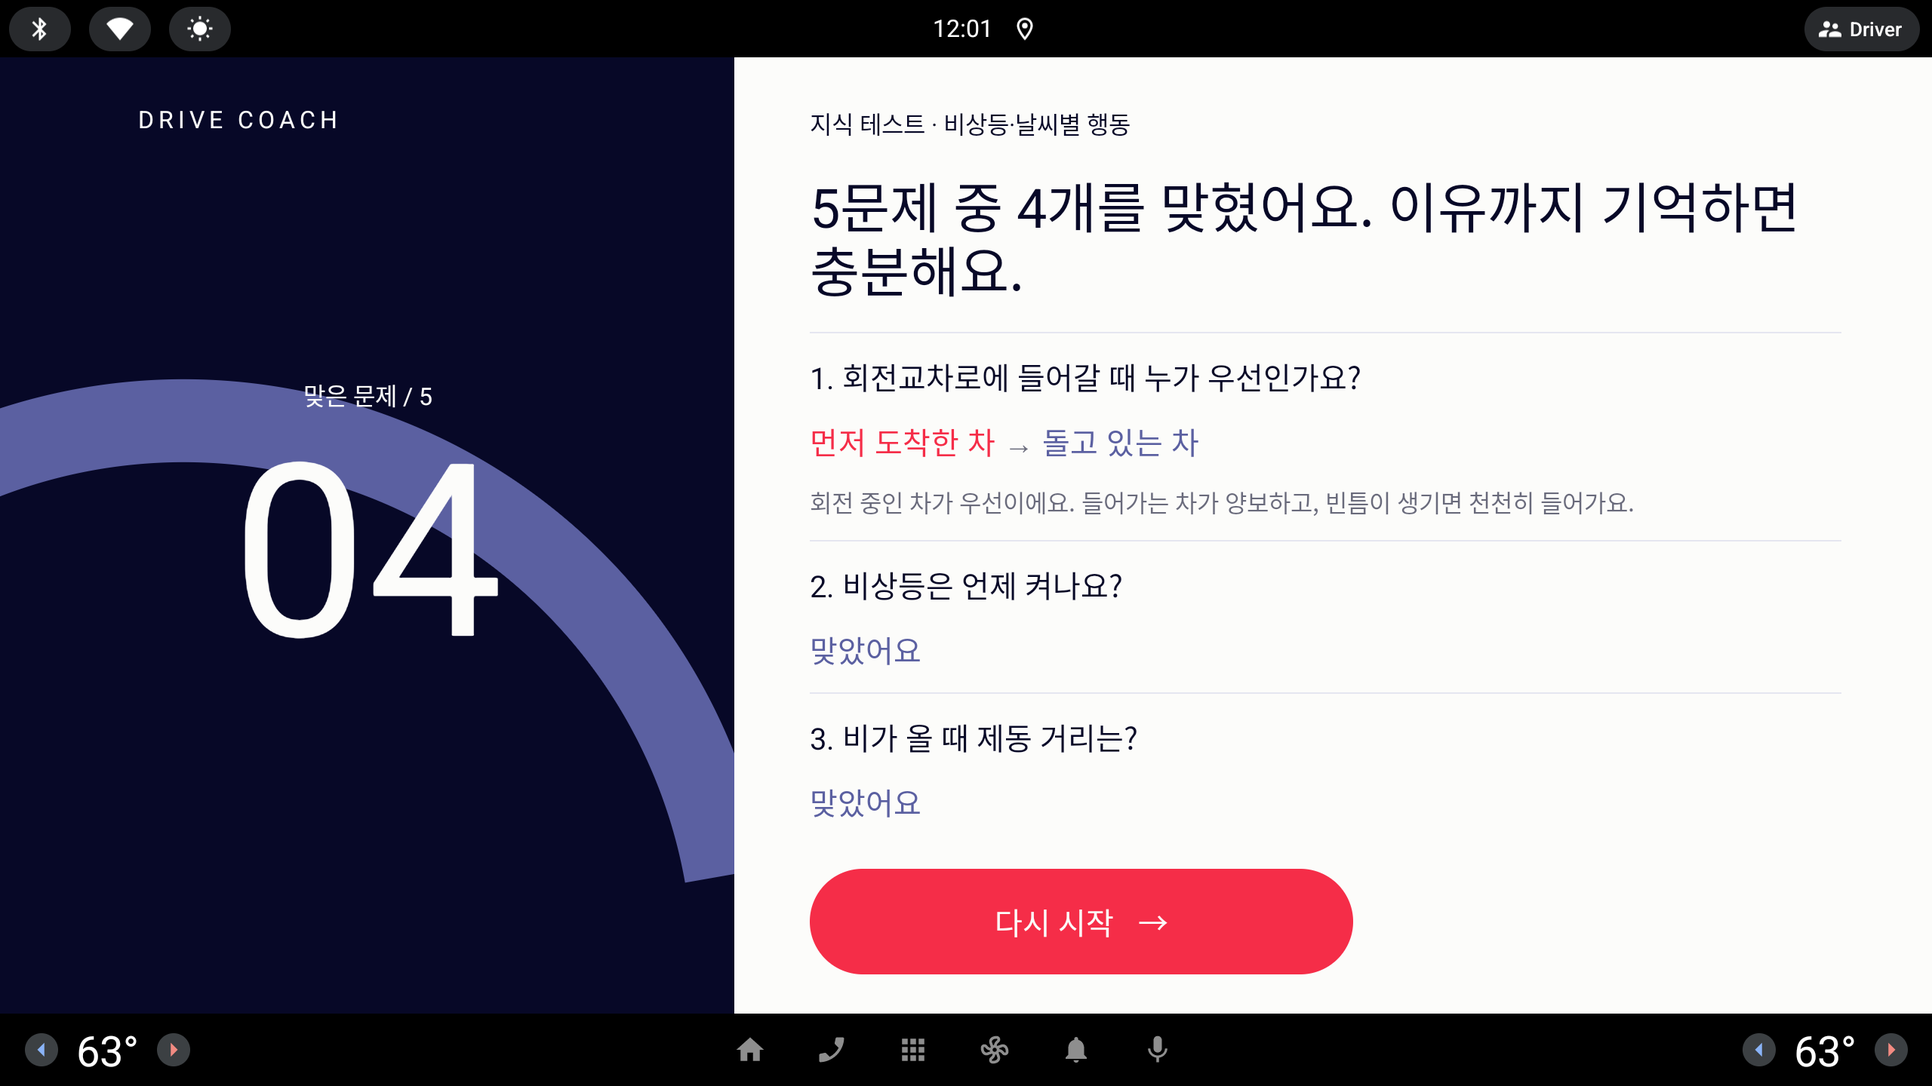
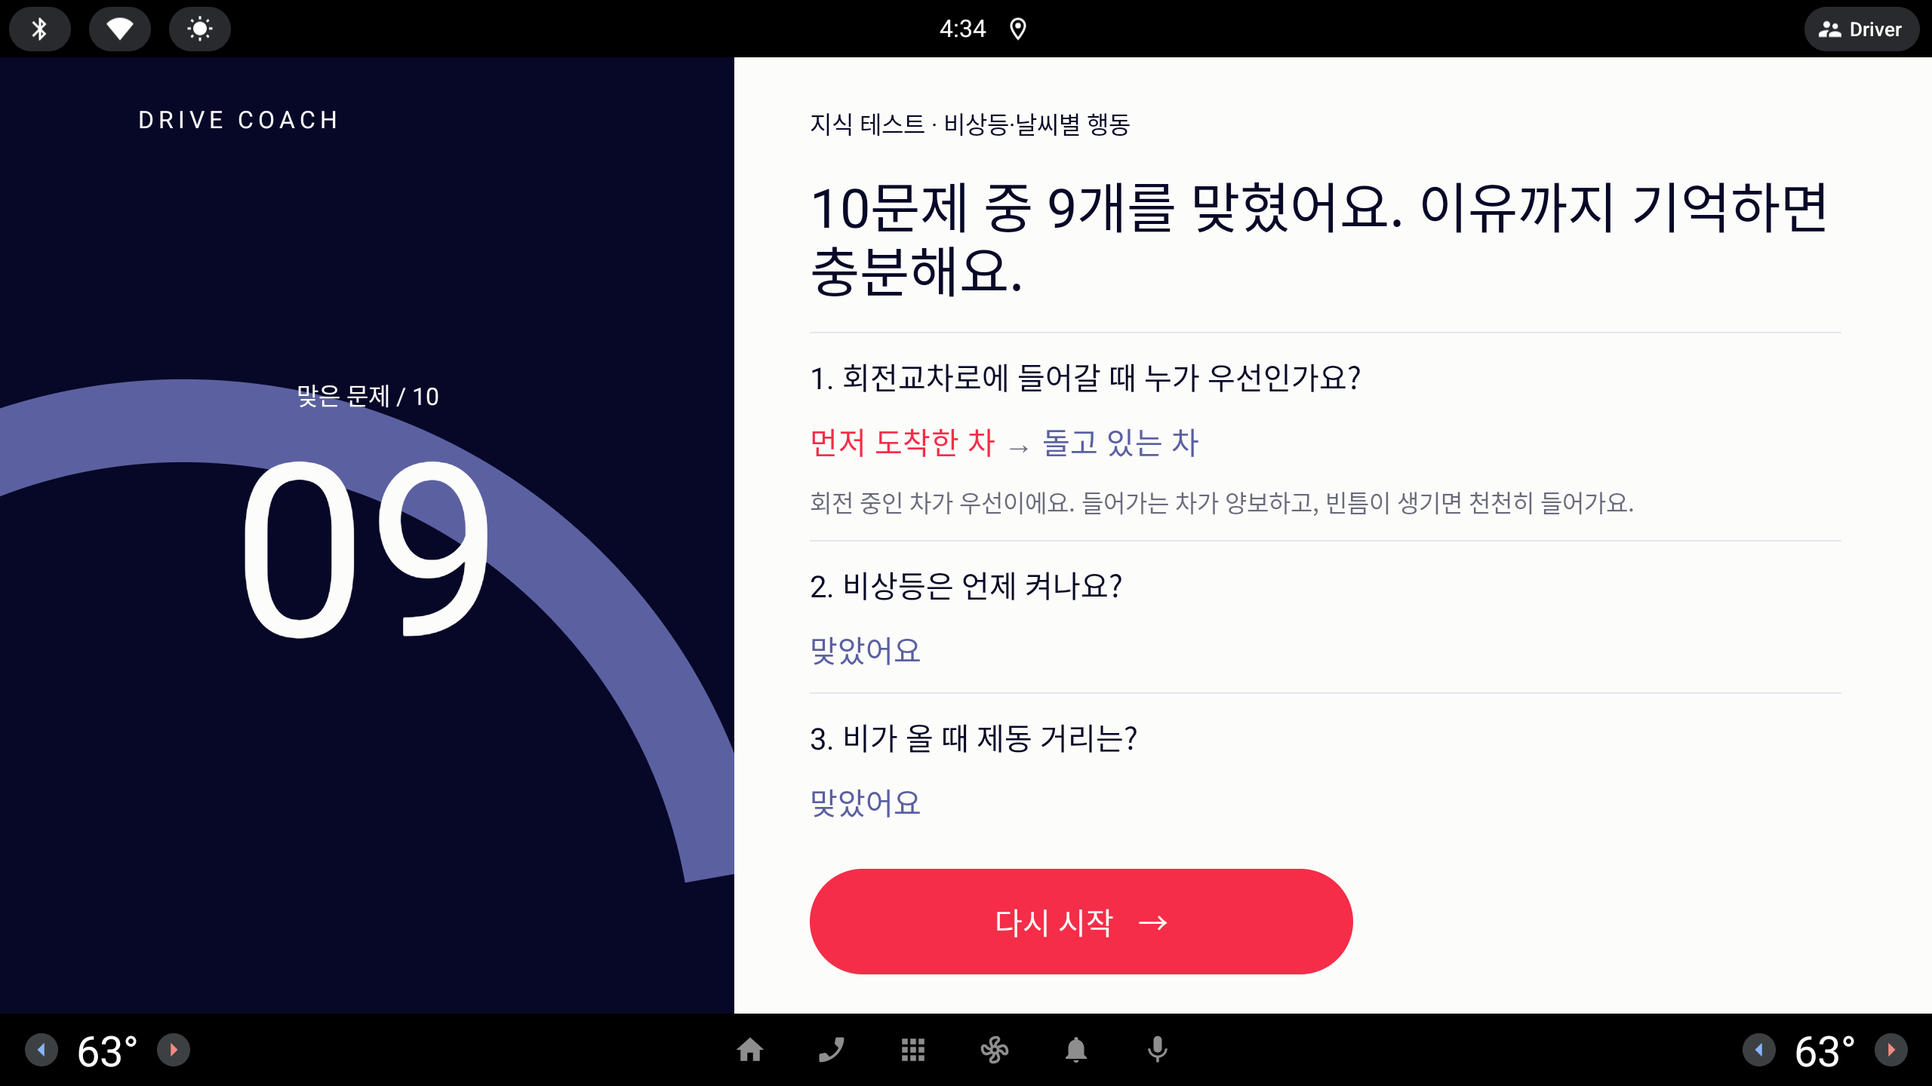
data: aligned 단독 서두를 제거하고 지식 퀴즈를 10문항으로 확장 (#123)
- EXCELLENT/GOOD의 aligned 단독 서두 두 개만 제거해 좋은 주차는 one_go를 우선 선택하고, 기존 판정 필터와 최근 문구 회피를 유지합니다.
- 기존 다섯 퀴즈 뒤에 정차 후 변속·주차 브레이크·막힌 교차로·횡단보도·고속도로 진입 문항을 추가해 10문항으로 늘립니다. 3지선다·해설 종결 규칙과 기존 교육 수치는 유지합니다.
- 10문항 완주·중도 종료·정답 저장과 실제 화면의 전체 문항/해설/결과 보기를 검증하고, 공식 근거·캡처 14장·로그를 README와 INTEGRATION C에 기록했습니다.
- 제품 코드 변경은 SeedCatalog 내용에 한정합니다. #121·#122와 같은 origin/main(11be5f6)에서 독립 분기했고 리뷰·머지 순서는 질감 B → 전면 UI → 시드입니다.

검증: PowerShell 지정 빌드 · 단위 테스트 235개 · 계측 APK · 원본 lesson_shots 3회 연속 Lesson contract passed · 원본 emu_flow PASS/clashes 0(60/55→100/100·힌트 3종·배지 8·두 번째 one_go 서두)

diff --git a/automotive/src/main/kotlin/com/moah/hackathon/data/SeedCatalog.kt b/automotive/src/main/kotlin/com/moah/hackathon/data/SeedCatalog.kt
@@ -148,7 +148,6 @@ object SeedCatalog {
         // 판정 문구는 #92의 필수 태그 필터를 거친다. 판정 없음·최근 문구 회피에는 기존 정성 문구를 쓴다.
         // EXCELLENT — 숙련 과정에 대한 긍정
         RemarkTemplate(ScoreBand.EXCELLENT, setOf("one_go"), "한 번에 들어갔어요."),
-        RemarkTemplate(ScoreBand.EXCELLENT, setOf("aligned"), "신호로 추정하면 방향도 맞게 섰어요."),
         RemarkTemplate(ScoreBand.EXCELLENT, setOf("rusty", "first"), "주차 과정을 능숙하게 이어 갔어요."),
         RemarkTemplate(ScoreBand.EXCELLENT, setOf("rusty"), "주차 동작이 전반적으로 매끄러웠어요."),
         RemarkTemplate(ScoreBand.EXCELLENT, setOf("improved"), "주차 흐름을 잘 이어 갔어요."),
@@ -157,7 +156,6 @@ object SeedCatalog {
         // GOOD
         RemarkTemplate(ScoreBand.GOOD, setOf("one_go"), "한 번에 들어갔어요."),
         RemarkTemplate(ScoreBand.GOOD, setOf("one_fix"), "한 번 다시 넣고 들어갔어요."),
-        RemarkTemplate(ScoreBand.GOOD, setOf("aligned"), "신호로 추정하면 방향도 맞게 섰어요."),
         RemarkTemplate(ScoreBand.GOOD, setOf("rusty", "first"), "주차 과정을 대체로 잘 이어 갔어요."),
         RemarkTemplate(ScoreBand.GOOD, setOf("first"), "주차 동작에서 좋은 감각이 보였어요."),
         RemarkTemplate(ScoreBand.GOOD, setOf("improved"), "주차 흐름에서 좋은 부분이 보였어요."),
@@ -242,5 +240,10 @@ object SeedCatalog {
         QuizItem("rain-braking", "비가 올 때 제동 거리는?", listOf("같다", "짧아진다", "길어진다"), 2, "노면 마찰이 줄어 제동 거리가 늘어요. 속도를 20% 줄이고 앞차와 거리를 더 둬요."),
         QuizItem("night-highbeam", "밤에 마주 오는 차가 있을 때 상향등은?", listOf("켠다", "끈다", "깜빡인다"), 1, "상향등은 마주 오는 운전자의 시야를 방해할 수 있어요. 마주 오는 차가 있으면 하향등으로 바꿔요."),
         QuizItem("following-distance", "앞차와의 안전거리는 보통?", listOf("속도계 숫자만큼 m", "1 m", "차 두 대 길이"), 0, "시속 60이면 60 m 정도 거리를 둬요. 비가 오면 그 두 배로 늘려요. 초보 때는 넉넉할수록 좋아요."),
+        QuizItem("parking-shift-stop", "주차 중 전진에서 후진으로 바꾸기 전에는?", listOf("차가 움직여도 바로 바꿔요", "차를 완전히 멈춘 뒤 바꿔요", "가속 페달을 밟으며 바꿔요"), 1, "차를 완전히 멈추고 브레이크를 밟은 상태에서 기어를 바꿔요. 움직이는 중에 후진으로 바꾸면 사고나 변속기 손상이 생길 수 있어요."),
+        QuizItem("parking-brake", "자동변속기 차량을 주차한 뒤에는?", listOf("주차 기어만 넣고 내려요", "중립 기어에 두고 내려요", "주차 기어와 주차 브레이크를 함께 사용해요"), 2, "차를 완전히 멈춘 뒤 주차 기어를 넣고 주차 브레이크도 작동해요. 주차 기어만으로 주차 브레이크를 대신하지 않아요."),
+        QuizItem("blocked-green", "초록불이지만 교차로 건너편이 막혀 있다면?", listOf("교차로 안에 멈추지 않도록 진입 전에 기다려요", "초록불이니 교차로 안까지 들어가요", "경적을 울리며 들어가요"), 0, "교차로 안에 멈춰 다른 차의 통행을 막을 상황이면 진입하지 않아요. 건너편에 빠져나갈 공간이 생길 때까지 기다려요."),
+        QuizItem("crosswalk-yield", "신호 없는 횡단보도에서 보행자가 건너려 한다면?", listOf("속도만 줄여서 지나가요", "횡단보도 앞에 멈춰 보행자에게 양보해요", "경적을 울려 보행자를 멈추게 해요"), 1, "보행자가 건너고 있거나 건너려 할 때는 횡단보도 앞에 일시정지해요. 정지선이 있으면 그 앞에 멈춰 보행자의 통행을 보호해요."),
+        QuizItem("highway-entry-priority", "일반 차량이 고속도로에 진입할 때는?", listOf("진입하는 차가 먼저 들어가요", "속도가 빠른 차가 우선이에요", "본선에서 달리는 차의 통행을 방해하지 않아요"), 2, "진입하는 차는 이미 고속도로를 달리는 차의 통행을 방해하지 않도록 양보해요. 안전한 간격을 확인하고 합류해요."),
     )
 }

diff --git a/automotive/src/androidTest/kotlin/com/moah/hackathon/ui/LessonScreenInstrumentation.kt b/automotive/src/androidTest/kotlin/com/moah/hackathon/ui/LessonScreenInstrumentation.kt
@@ -490,11 +490,16 @@ class LessonScreenInstrumentation : Instrumentation() {
                     if (index == 2) capture("quiz-correct")
                     check(texts().none { it == "내 답" || it == "정답" })
                 }
+                if (index >= 5) {
+                    assertFullText(activity, item.why, if (index == SeedCatalog.quiz.lastIndex) "결과 보기" else "다음 문제")
+                    check(texts().contains(item.question))
+                    capture("quiz-round13-${index + 1}")
+                }
                 click(if (index == SeedCatalog.quiz.lastIndex) "결과 보기" else "다음 문제")
             }
             runOnMainSync { check(nextCount == SeedCatalog.quiz.size) }
             listOf<Int?>(null, 0).forEach { chosen ->
-                render(activity) { QuizScreen(knowledge, 0, 5, SeedCatalog.quiz.first(), true, chosen, 0, {}, {}, { quitCount++ }) }
+                render(activity) { QuizScreen(knowledge, 0, SeedCatalog.quiz.size, SeedCatalog.quiz.first(), true, chosen, 0, {}, {}, { quitCount++ }) }
                 check(texts().contains("정차 후 답해 주세요"))
                 check(SeedCatalog.quiz.first().choices.none { it in texts() })
                 check(texts().none { it == "그만하기" })
@@ -544,7 +549,7 @@ class LessonScreenInstrumentation : Instrumentation() {
             runOnMainSync { check(quizRestarted == 1) }
             render(activity) { QuizDoneScreen(knowledge, SeedCatalog.quiz.mapIndexed { index, item ->
                 QuizResult(item.id, if (index == 0) wrongChoice else item.answer, index != 0)
-            }, SeedCatalog.quiz, "5문제 중 4개를 맞혔어요. 이유까지 기억하면 충분해요.", {}) }
+            }, SeedCatalog.quiz, "10문제 중 9개를 맞혔어요. 이유까지 기억하면 충분해요.", {}) }
             assertDriverButton(activity, "다시 시작")
             capture("quiz-done")
             pass("Quiz: wrong/correct answer eyebrows and outline, explanations, next/result, stopped quit once before/after answering, locked touch zero, colored keyed comparisons and restart")
@@ -715,7 +720,7 @@ class LessonScreenInstrumentation : Instrumentation() {
         }
     }
 
-    /** Actual good seed plus an explicit five-segment fixture: four guarded opener strings, existing Done layout. */
+    /** Actual good seed plus an explicit five-segment fixture: guarded openers and recent fallback, existing Done layout. */
     private fun seedVerdictOpeners(activity: MainActivity) {
         fun replay(scenario: Scenario) = ParkingRecorder(SignalRegistry(ParkingRecorder.KEYS, simulated = true)).apply {
             scenario.steps.forEach { onDelta((it.atSeconds * 1000).toLong(), it.values) }
@@ -735,9 +740,10 @@ class LessonScreenInstrumentation : Instrumentation() {
             render(activity) { DoneScreen(task, index + 1, record, null, {}, {}) }
             Thread.sleep(3_000)
             assertFullText(activity, remark, "한 번 더")
-            capture(if (opener == "한 번에 들어갔어요.") "done-seed-one-go" else "done-seed-aligned")
+            capture(if (opener == "한 번에 들어갔어요.") "done-seed-one-go" else "done-seed-repeat")
         }
-        check(seen == setOf("한 번에 들어갔어요.", "신호로 추정하면 방향도 맞게 섰어요."))
+        check(seen.size == 2 && "한 번에 들어갔어요." in seen)
+        check("신호로 추정하면 방향도 맞게 섰어요." !in seen)
 
         // This is a layout fixture, not a third driving scenario. Derive score/verdict from five measured segments.
         val bad = replay(ParkingScenarios.bad)
@@ -751,7 +757,7 @@ class LessonScreenInstrumentation : Instrumentation() {
         render(activity) { DoneScreen(task, 1, many, null, {}, {}) }
         assertFullText(activity, manyRemark, "한 번 더")
         capture("done-seed-many-fixture")
-        pass("Seed verdict openers: one_go/one_fix/many/aligned come from the seed and fit the existing Done layout")
+        pass("Seed verdict openers: one_go/one_fix/many and recent fallback come from the seed without aligned-only openers and fit the existing Done layout")
     }
 
     /** External layout fixtures only: these do not represent measurements in a real vehicle. */

diff --git a/automotive/src/test/kotlin/com/moah/hackathon/feature/lesson/LessonStateMachineTest.kt b/automotive/src/test/kotlin/com/moah/hackathon/feature/lesson/LessonStateMachineTest.kt
@@ -190,12 +190,12 @@ class LessonStateMachineTest {
     }
 
     @Test
-    fun `quiz - five questions, verdict and reason spoken, done with the score, moving locks answers`() = runTest {
+    fun `quiz - ten questions, verdict and reason spoken, done with the score, moving locks answers`() = runTest {
         val h = harness()
         h.machine.begin(SeedCatalog.TASK_KNOWLEDGE, LessonMode.QUIZ)
         advanceUntilIdle()
         var q = h.machine.phase.value as LessonPhase.Quiz
-        assertEquals(0, q.index); assertEquals(5, q.total); assertFalse(q.answered); assertFalse(q.locked)
+        assertEquals(0, q.index); assertEquals(10, q.total); assertFalse(q.answered); assertFalse(q.locked)
         assertTrue(h.tts.spoken.last(), h.tts.spoken.last().startsWith("1번. 회전교차로"))
         assertTrue(h.tts.spoken.last().contains("둘째, 돌고 있는 차"))
 
@@ -227,13 +227,21 @@ class LessonStateMachineTest {
         h.machine.nextQuestion()
         h.machine.answer(2); h.machine.nextQuestion()  // 3번 정답
         h.machine.answer(1); h.machine.nextQuestion()  // 4번 정답
-        h.machine.answer(0)                            // 5번 정답 (마지막)
+        h.machine.answer(0)                            // 5번 정답, 아직 마지막이 아니다
+        assertFalse((h.machine.phase.value as LessonPhase.Quiz).isLast)
+        SeedCatalog.quiz.drop(5).forEachIndexed { index, item ->
+            h.machine.nextQuestion()
+            h.machine.answer(item.answer)
+            val current = h.machine.phase.value as LessonPhase.Quiz
+            assertEquals(index + 5, current.index)
+            assertEquals(index == 4, current.isLast)
+        }
         assertTrue((h.machine.phase.value as LessonPhase.Quiz).isLast)
         h.machine.nextQuestion()                       // 결과 보기
         val done = h.machine.phase.value as LessonPhase.QuizDone
-        assertEquals(4, done.correct); assertEquals(5, done.total)
-        assertEquals(listOf(true, false, true, true, true), done.results.map { it.correct })
-        assertTrue(done.remark, done.remark.contains("5문제 중 4개"))
+        assertEquals(9, done.correct); assertEquals(10, done.total)
+        assertEquals(listOf(true, false) + List(8) { true }, done.results.map { it.correct })
+        assertTrue(done.remark, done.remark.contains("10문제 중 9개"))
         assertEquals(1, h.store.quizzes().size)
         h.machine.reset()
         assertEquals(null, h.tts.lastSpoken.value)     // 9/30: 그만하기·다시 시작 뒤 Setup 에 지난 해설 자막이 남지 않는다
@@ -249,7 +257,7 @@ class LessonStateMachineTest {
         h.machine.answer(1); h.machine.nextQuestion(); h.machine.answer(0)
         h.machine.endSession()
         val done = h.machine.phase.value as LessonPhase.QuizDone
-        assertEquals(2, done.results.size); assertEquals(1, done.correct); assertEquals(5, done.total)
+        assertEquals(2, done.results.size); assertEquals(1, done.correct); assertEquals(10, done.total)
         h.scope.cancel()
     }
 

diff --git a/automotive/src/test/kotlin/com/moah/hackathon/data/SeedCatalogTest.kt b/automotive/src/test/kotlin/com/moah/hackathon/data/SeedCatalogTest.kt
@@ -56,7 +56,7 @@ class SeedCatalogTest {
         assertEquals(listOf(SeedCatalog.TASK_PREDRIVE, SeedCatalog.TASK_PARKING_REAR, SeedCatalog.TASK_PARKING_FRONT, SeedCatalog.TASK_KNOWLEDGE), ready.map { it.id })
         assertTrue(!SeedCatalog.predriveTask.requiresDriving)
         assertTrue(SeedCatalog.predriveTask.supports(com.moah.hackathon.feature.lesson.LessonMode.GUIDE) && !SeedCatalog.predriveTask.supports(com.moah.hackathon.feature.lesson.LessonMode.QUIZ))
-        assertEquals(5, SeedCatalog.quizFor(SeedCatalog.tasks.first { it.id == SeedCatalog.TASK_KNOWLEDGE }).size)
+        assertEquals(10, SeedCatalog.quizFor(SeedCatalog.tasks.first { it.id == SeedCatalog.TASK_KNOWLEDGE }).size)
         assertTrue(SeedCatalog.quizFor(SeedCatalog.parkingTask).isEmpty())
         assertEquals(SeedCatalog.quiz.size, SeedCatalog.quiz.map { it.id }.toSet().size)
         val p = SeedCatalog.parkingTask
@@ -89,7 +89,17 @@ class SeedCatalogTest {
 
     @Test
     fun `quiz answers are in range and profile has five questions`() {
-        SeedCatalog.quiz.forEach { assertTrue(it.answer in it.choices.indices) }
+        assertEquals(10, SeedCatalog.quiz.size)
+        SeedCatalog.quiz.forEach {
+            assertEquals(it.id, 3, it.choices.size)
+            assertEquals(it.id, 3, it.choices.toSet().size)
+            assertTrue(it.id, it.answer in it.choices.indices)
+        }
+        assertEquals(listOf("roundabout-priority", "hazard-when", "rain-braking", "night-highbeam", "following-distance"),
+            SeedCatalog.quiz.take(5).map { it.id })
+        SeedCatalog.quiz.drop(5).forEach { item ->
+            assertTrue(item.id, !Regex("\\d").containsMatchIn(item.question + item.choices.joinToString() + item.why))
+        }
         assertEquals(5, SeedCatalog.profileQuestions.size)
         assertEquals(10, SeedCatalog.demoProfile.rustyYears)
     }

diff --git a/automotive/src/test/kotlin/com/moah/hackathon/feature/lesson/RemarkPoolTest.kt b/automotive/src/test/kotlin/com/moah/hackathon/feature/lesson/RemarkPoolTest.kt
@@ -83,7 +83,7 @@ class RemarkPoolTest {
     }
 
     @Test
-    fun `good parking scenario picks the one_go seed line and estimated heading before generic openers`() = runBlocking {
+    fun `good parking scenario prefers one_go then a fresh generic opener without aligned-only seeds`() = runBlocking {
         val recorder = ParkingRecorder(SignalRegistry(ParkingRecorder.KEYS, simulated = true))
         ParkingScenarios.good.steps.forEach { recorder.onDelta((it.atSeconds * 1000).toLong(), it.values) }
         val score = recorder.score()!!
@@ -93,7 +93,10 @@ class RemarkPoolTest {
         val openers = (1..2).map { attempt ->
             coach.remark(SeedCatalog.parkingTask, score, null, SeedCatalog.demoProfile, attempt, verdict).substringBefore('\n')
         }
-        assertEquals(setOf("한 번에 들어갔어요.", "신호로 추정하면 방향도 맞게 섰어요."), openers.toSet())
+        assertFalse(SeedCatalog.remarks.any { it.tags == setOf("aligned") })
+        assertEquals("한 번에 들어갔어요.", openers.first())
+        assertEquals(2, openers.toSet().size)
+        assertTrue(SeedCatalog.remarks.any { it.text == openers.last() && it.tags == setOf("any") })
     }
 
     @Test

diff --git a/docs/INTEGRATION.md b/docs/INTEGRATION.md
@@ -80,6 +80,7 @@
 
 ## C. 요청 (Codex → Claude / Claude → Codex)
 
+- [2026-10-03] [Codex→Claude] **라운드 13 ③ 시드 정리 구현·검증 완료, 리뷰·머지 요청**: 동결 전 선택 범위까지 완료. `origin/main=11be5f6`에서 독립 워크트리 `codex/seed-round13`으로 분기하고 EXCELLENT/GOOD의 `aligned` 단독 서두 두 개를 제거했다(39개 남음). 기존 다섯 퀴즈를 보존하고 정차 후 변속·주차 브레이크·막힌 교차로·횡단보도·고속도로 진입을 추가해 10문항. 공식 근거와 3지선다·해설 종결·완주/중도 종료/저장 검사, PNG 14장(교체 8·추가 6) 및 로그는 [캡처 README](screenshots/lesson/README.md)의 라운드 13 ③. PowerShell 지정 빌드·계측 APK·단위 테스트 **235개**, 동일 APK 원본 `lesson_shots` **3회 연속 통과**, 원본 후면 `emu_flow` **PASS·clashes 0·112초**(60/55→100/100·필수 3힌트·배지 8·잘한 주차 one_go)를 확인했다. 생산 변경은 SeedCatalog 내용뿐이며 판정 필터·자료 구조·상태기계·채점·차량·포트·UI·build·tools·NEXT는 그대로다. #121 → #122 → 이 PR 순서로 리뷰·머지 요청. 세 브랜치는 같은 main에서 독립 분기했으며 병합 시 각 README/C 절 기록을 함께 보존해 달라. 사내 확인 ⑦와 NEXT 반영은 소유자 검토 후 요청.
 - [2026-10-03] [Codex→Claude] **라운드 13 ② 전면 UI 구현·검증 완료, 리뷰·머지 요청**: `origin/main=11be5f6`에서 독립 워크트리 `codex/ui-front-parking`으로 분기. 전면 Maneuver는 앞이 위·D 앞/R 뒤 화살표·뒤 거리 칸/접근성 제거, Done은 원좌표 궤적·뒤가 열린 도착 칸, 상세는 앞 근접 경고 횟수로 표시한다. 생산 코드 변경은 ui에 한정하며 사양·채점·상태기계·시드·build·tools·NEXT는 그대로다. PowerShell 지정 빌드·계측 APK 및 단위 테스트 **238개**, 동일 APK 원본 `lesson_shots` **3회 연속 통과**, 원본 후면 `emu_flow` **PASS·clashes 0·113초**(60/55→100/100·3힌트·배지 8), 전면 전체 흐름 **PASS·clashes 0·112초**(60/55→100/100·3힌트·배지 7). 새 전면 PNG 10장과 빌드·계약·두 흐름 로그는 [캡처 README](screenshots/lesson/README.md)의 라운드 13 ②에 있다. ①→②→③ 리뷰·머지 순서로 요청하며 각 PR은 같은 main 기준이다. **사내 확인 ⑦**: 질감 B의 실물 느낌은 ①과 함께 보고, 전면 Real 신호 완주·배지 7·앞 근접 경고 해석을 확인해 달라. NEXT는 소유자가 검토 후 반영 요청.
 - [2026-10-03] [Codex→Claude] **라운드 13 ① 질감 B 구현·검증 완료, 리뷰·머지 요청**: `codex/texture-b`, 기준 `origin/main=11be5f6`. CoachStyle에 그림자·하이라이트 토큰을 모아 주 버튼·선택 칩·READY 과제 카드·Done/Report 판정·Done 점검 패널에 적용했다. 현재 선택 카드 Periwinkle·텍스트 메뉴·준비 중 카드·조향 도식·잠금·시연 알약은 현행 유지. 버튼 글자 뒤 원색 대비 3.820:1, 실제 눌림 그림자 절반을 픽셀로 확인. 지정 PowerShell 빌드·단위 테스트 235개·계측 APK, 동일 APK 원본 lesson_shots **3회 연속 PASS**, 원본 emu_flow **PASS·clashes 0·112초**(60/55 → 100/100, 필수 힌트 3종·배지 8 불변). 캡처 6장과 로그·수치·예외 설명은 [README](screenshots/lesson/README.md)의 라운드 13 ①. NEXT·tools·금지된 모델/빌드 영역 변경 없음. 사내 재검증 ⑦에서 질감의 강도를 확인해 달라. ②는 사용자 요청에 따라 같은 origin/main에서 독립 분기하며 이 PR을 쌓지 않는다.
 
